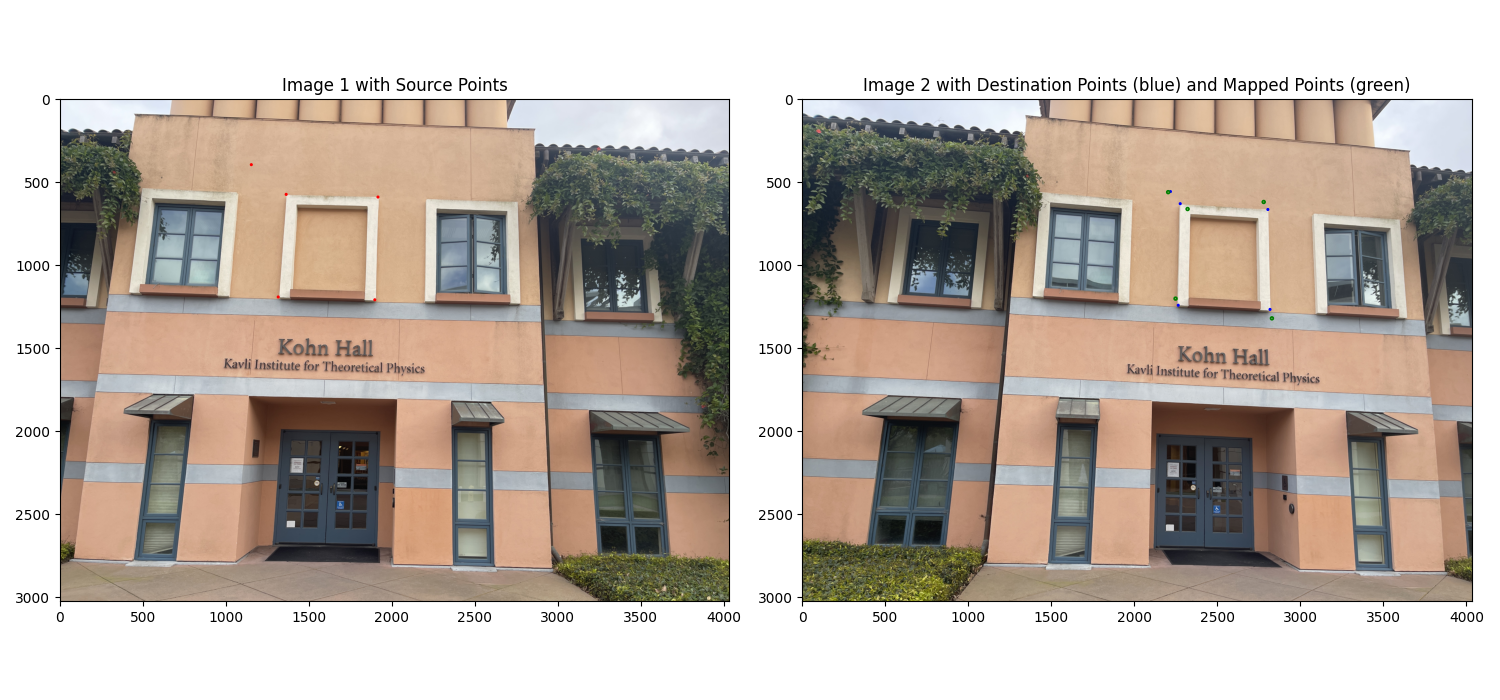
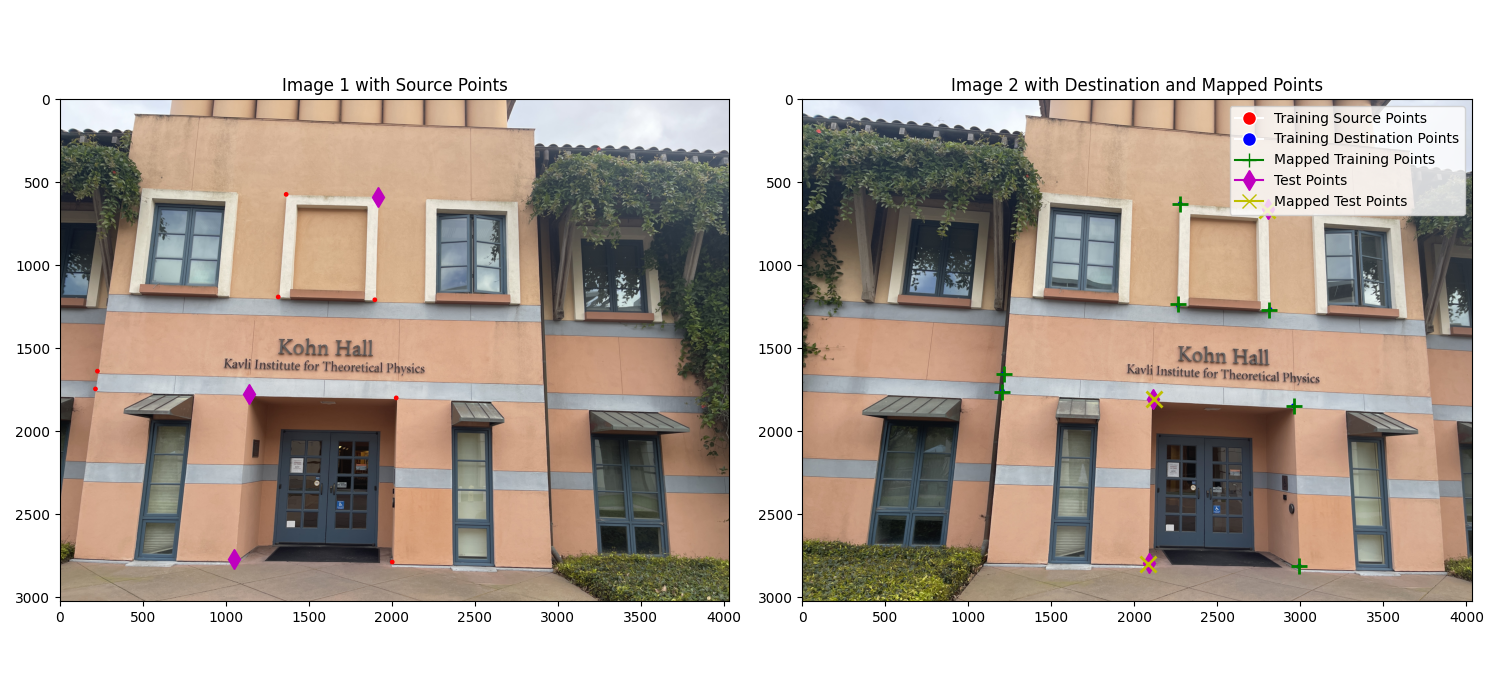
add: corrected homography

diff --git a/compute_homography_dlt.py b/compute_homography_dlt.py
@@ -76,10 +76,21 @@ def apply_homography(H, point):
 
 
 def visualize_homography_mapping(
-    image1_path, image2_path, src_points, dst_points, mapped_points
+    image1_path, image2_path, src_points, dst_points, mapped_points, 
+    test_src_points=None, test_dst_points=None, test_mapped_points=None
 ):
     """
     Visualize the original points and the mapped points on images
+    
+    Args:
+        image1_path: Path to first image
+        image2_path: Path to second image
+        src_points: Source points used for homography estimation
+        dst_points: Destination points used for homography estimation
+        mapped_points: Source points after applying homography
+        test_src_points: Test source points (not used in homography computation)
+        test_dst_points: Test destination points (ground truth)
+        test_mapped_points: Test source points after applying homography
     """
     try:
         import cv2
@@ -103,24 +114,49 @@ def visualize_homography_mapping(
         ax1.imshow(img1)
         ax2.imshow(img2)
 
-        # Plot original points on image 1
+        # Plot training points on image 1 (circle markers)
         for point in src_points:
-            ax1.add_patch(Circle((point[0], point[1]), 5, color="red", fill=True))
+            ax1.add_patch(Circle((point[0], point[1]), 10, color="red", fill=True))
 
-        # Plot original points on image 2
+        # Plot training points on image 2 (circle markers)
         for point in dst_points:
-            ax2.add_patch(Circle((point[0], point[1]), 5, color="blue", fill=True))
+            ax2.add_patch(Circle((point[0], point[1]), 10, color="blue", fill=True))
 
-        # Plot mapped points on image 2
+        # Plot mapped training points on image 2 (plus markers)
         for point in mapped_points:
-            ax2.add_patch(
-                Circle((point[0], point[1]), 5, color="green", fill=False, linewidth=2)
-            )
+            ax2.plot(point[0], point[1], 'g+', markersize=12, markeredgewidth=2)
+            
+        # Plot test points if provided
+        if test_src_points is not None and test_dst_points is not None and test_mapped_points is not None:
+            # Test points on image 1 (diamond markers)
+            for point in test_src_points:
+                ax1.plot(point[0], point[1], 'md', markersize=10)
+                
+            # Ground truth test points on image 2 (diamond markers)
+            for point in test_dst_points:
+                ax2.plot(point[0], point[1], 'md', markersize=10)
+                
+            # Mapped test points on image 2 (x markers)
+            for point in test_mapped_points:
+                ax2.plot(point[0], point[1], 'yx', markersize=12, markeredgewidth=2)
 
-        ax1.set_title("Image 1 with Source Points")
-        ax2.set_title(
-            "Image 2 with Destination Points (blue) and Mapped Points (green)"
-        )
+        # Add legend
+        handles = [
+            plt.Line2D([0], [0], marker='o', color='w', markerfacecolor='r', markersize=10, label='Training Source Points'),
+            plt.Line2D([0], [0], marker='o', color='w', markerfacecolor='b', markersize=10, label='Training Destination Points'),
+            plt.Line2D([0], [0], marker='+', color='g', markersize=10, label='Mapped Training Points'),
+        ]
+        
+        if test_src_points is not None:
+            handles.extend([
+                plt.Line2D([0], [0], marker='d', color='m', markersize=10, label='Test Points'),
+                plt.Line2D([0], [0], marker='x', color='y', markersize=10, label='Mapped Test Points')
+            ])
+            
+        ax2.legend(handles=handles, loc='upper right')
+
+        ax1.set_title('Image 1 with Source Points')
+        ax2.set_title('Image 2 with Destination and Mapped Points')
 
         plt.tight_layout()
         plt.savefig("homography_mapping.png")
@@ -139,19 +175,41 @@ def main():
     # Extract image paths and point pairs
     image1_path = data["image1"]
     image2_path = data["image2"]
-
-    # Get point pairs
-    src_points = np.array([pair["image1_point"] for pair in data["point_pairs"]])
-    dst_points = np.array([pair["image2_point"] for pair in data["point_pairs"]])
+    
+    # Get all point pairs
+    all_src_points = np.array([pair["image1_point"] for pair in data["point_pairs"]])
+    all_dst_points = np.array([pair["image2_point"] for pair in data["point_pairs"]])
+    
+    # Split data into training (for homography estimation) and testing sets
+    # Use 70% of points for training, 30% for testing
+    n_points = len(all_src_points)
+    n_train = int(0.7 * n_points)
+    
+    # Ensure we have at least 4 points for DLT
+    n_train = max(n_train, 4)
+    
+    # Random indices for training
+    np.random.seed(42)  # For reproducibility
+    train_indices = np.random.choice(n_points, n_train, replace=False)
+    test_indices = np.array([i for i in range(n_points) if i not in train_indices])
+    
+    # Split the data
+    src_points = all_src_points[train_indices]
+    dst_points = all_dst_points[train_indices]
+    
+    test_src_points = all_src_points[test_indices]
+    test_dst_points = all_dst_points[test_indices]
+    
+    print(f"Using {len(src_points)} points for homography estimation and {len(test_src_points)} points for testing")
 
     # Compute homography matrix using DLT
     H = compute_homography_dlt(src_points, dst_points)
 
     print("Computed Homography Matrix:")
     print(H)
-    print("\nVerification of point mappings:")
+    print("\nVerification of point mappings (Training Set):")
 
-    # Map all points and compute errors
+    # Map all training points and compute errors
     mapped_points = []
     total_error = 0
 
@@ -177,29 +235,47 @@ def main():
 
         total_error += error
 
-    print(f"\nAverage error: {total_error/len(src_points):.2f} pixels")
-
-    # Test with a new point (using the first point as test)
-    test_point = src_points[0]
-    print(f"\nTest with first point: {test_point}")
-    mapped_test = apply_homography(H, test_point)
-    actual_dest = dst_points[0]
-    test_error = np.sqrt(
-        (mapped_test[0] - actual_dest[0]) ** 2 + (mapped_test[1] - actual_dest[1]) ** 2
-    )
-
-    print(f"Mapped to: [{mapped_test[0]:.2f}, {mapped_test[1]:.2f}]")
-    print(f"Actual destination: {actual_dest}")
-    print(f"Error: {test_error:.2f} pixels")
+    print(f"\nAverage training error: {total_error/len(src_points):.2f} pixels")
+    
+    # Test with points not used for homography estimation
+    print("\nTesting with held-out points:")
+    test_mapped_points = []
+    test_total_error = 0
+    
+    for i in range(len(test_src_points)):
+        src_point = test_src_points[i]
+        dst_point = test_dst_points[i]
+        
+        # Apply homography to test source point
+        mapped_point = apply_homography(H, src_point)
+        test_mapped_points.append(mapped_point)
+        
+        # Calculate error
+        error = np.sqrt(
+            (mapped_point[0] - dst_point[0]) ** 2
+            + (mapped_point[1] - dst_point[1]) ** 2
+        )
+        
+        print(f"Test Point {i+1}:")
+        print(f"  Source: {src_point}")
+        print(f"  Actual destination: {dst_point}")
+        print(f"  Mapped destination: [{mapped_point[0]:.2f}, {mapped_point[1]:.2f}]")
+        print(f"  Error: {error:.2f} pixels")
+        
+        test_total_error += error
+    
+    if len(test_src_points) > 0:
+        print(f"\nAverage test error: {test_total_error/len(test_src_points):.2f} pixels")
 
     # Visualize the results
     try:
         visualize_homography_mapping(
-            image1_path, image2_path, src_points, dst_points, mapped_points
+            image1_path, image2_path, 
+            src_points, dst_points, mapped_points,
+            test_src_points, test_dst_points, test_mapped_points
         )
     except Exception as e:
         print(f"Error in visualization: {e}")
-
 
 if __name__ == "__main__":
     main()

diff --git a/point_mapper.py b/point_mapper.py
@@ -33,6 +33,30 @@ class PointMapper:
         # Store point pairs: [[x1, y1, x2, y2], ...]
         self.point_pairs = []
 
+        # Load existing point pairs if the output file exists
+        self.existing_data = None
+        if os.path.exists(self.output_path):
+            try:
+                with open(self.output_path, "r") as f:
+                    self.existing_data = json.load(f)
+                    # Check if the existing file contains the same image pair
+                    if self.existing_data.get("image1") == os.path.abspath(
+                        self.img1_path
+                    ) and self.existing_data.get("image2") == os.path.abspath(
+                        self.img2_path
+                    ):
+                        print(
+                            f"Found existing point pairs for these images in {self.output_path}"
+                        )
+                        # Load existing point pairs into our current list
+                        for pair in self.existing_data.get("point_pairs", []):
+                            x1, y1 = pair["image1_point"]
+                            x2, y2 = pair["image2_point"]
+                            self.point_pairs.append([x1, y1, x2, y2])
+            except (json.JSONDecodeError, IOError) as e:
+                print(f"Error loading existing point pairs: {e}")
+                self.existing_data = None
+
         # Flag to track which image we're currently selecting a point in
         self.selecting_img1 = True
         self.current_pair = [None, None]
@@ -62,6 +86,19 @@ class PointMapper:
         # Connect event handlers
         self.fig.canvas.mpl_connect("button_press_event", self.on_click)
         self.fig.canvas.mpl_connect("key_press_event", self.on_key)
+
+        # Display any existing point pairs
+        if self.point_pairs:
+            for i, (x1, y1, x2, y2) in enumerate(self.point_pairs):
+                color = plt.cm.tab10((i + 1) % 10)
+
+                # Plot points with the same color
+                self.ax1.plot(x1, y1, "o", color=color, markersize=5)
+                self.ax2.plot(x2, y2, "o", color=color, markersize=5)
+
+                # Add labels with the point pair index
+                self.ax1.text(x1 + 5, y1 + 5, str(i + 1), color=color)
+                self.ax2.text(x2 + 5, y2 + 5, str(i + 1), color=color)
 
         # Create text for instructions
         self.instruction_text = self.fig.text(
@@ -193,6 +230,15 @@ class PointMapper:
 
     def save_points(self):
         """Save the point pairs to a JSON file."""
+        # Check if existing data file exists and load it
+        existing_data = None
+        if os.path.exists(self.output_path):
+            try:
+                with open(self.output_path, "r") as f:
+                    existing_data = json.load(f)
+            except (json.JSONDecodeError, IOError):
+                existing_data = None
+
         # Format the data for output
         data = {
             "image1": os.path.abspath(self.img1_path),
@@ -200,10 +246,40 @@ class PointMapper:
             "point_pairs": [],
         }
 
+        # Add new point pairs from current session
         for x1, y1, x2, y2 in self.point_pairs:
             data["point_pairs"].append(
                 {"image1_point": [int(x1), int(y1)], "image2_point": [int(x2), int(y2)]}
             )
+
+        # If we have existing data for the same image pair, preserve those points too
+        if existing_data:
+            # Check if it's the same image pair
+            if (
+                existing_data.get("image1") == data["image1"]
+                and existing_data.get("image2") == data["image2"]
+            ):
+                # Get only existing points that aren't duplicates of our new points
+                existing_points = existing_data.get("point_pairs", [])
+                new_points_set = {
+                    (
+                        p["image1_point"][0],
+                        p["image1_point"][1],
+                        p["image2_point"][0],
+                        p["image2_point"][1],
+                    )
+                    for p in data["point_pairs"]
+                }
+
+                for point in existing_points:
+                    point_tuple = (
+                        point["image1_point"][0],
+                        point["image1_point"][1],
+                        point["image2_point"][0],
+                        point["image2_point"][1],
+                    )
+                    if point_tuple not in new_points_set:
+                        data["point_pairs"].append(point)
 
         # Save to JSON file
         with open(self.output_path, "w") as f:
@@ -257,8 +333,8 @@ def main():
     parser = argparse.ArgumentParser(
         description="Map corresponding points between two images."
     )
-    parser.add_argument("image1", help="Path to the first image")
-    parser.add_argument("image2", help="Path to the second image")
+    parser.add_argument("--image1", help="Path to the first image")
+    parser.add_argument("--image2", help="Path to the second image")
     parser.add_argument(
         "--output",
         "-o",
